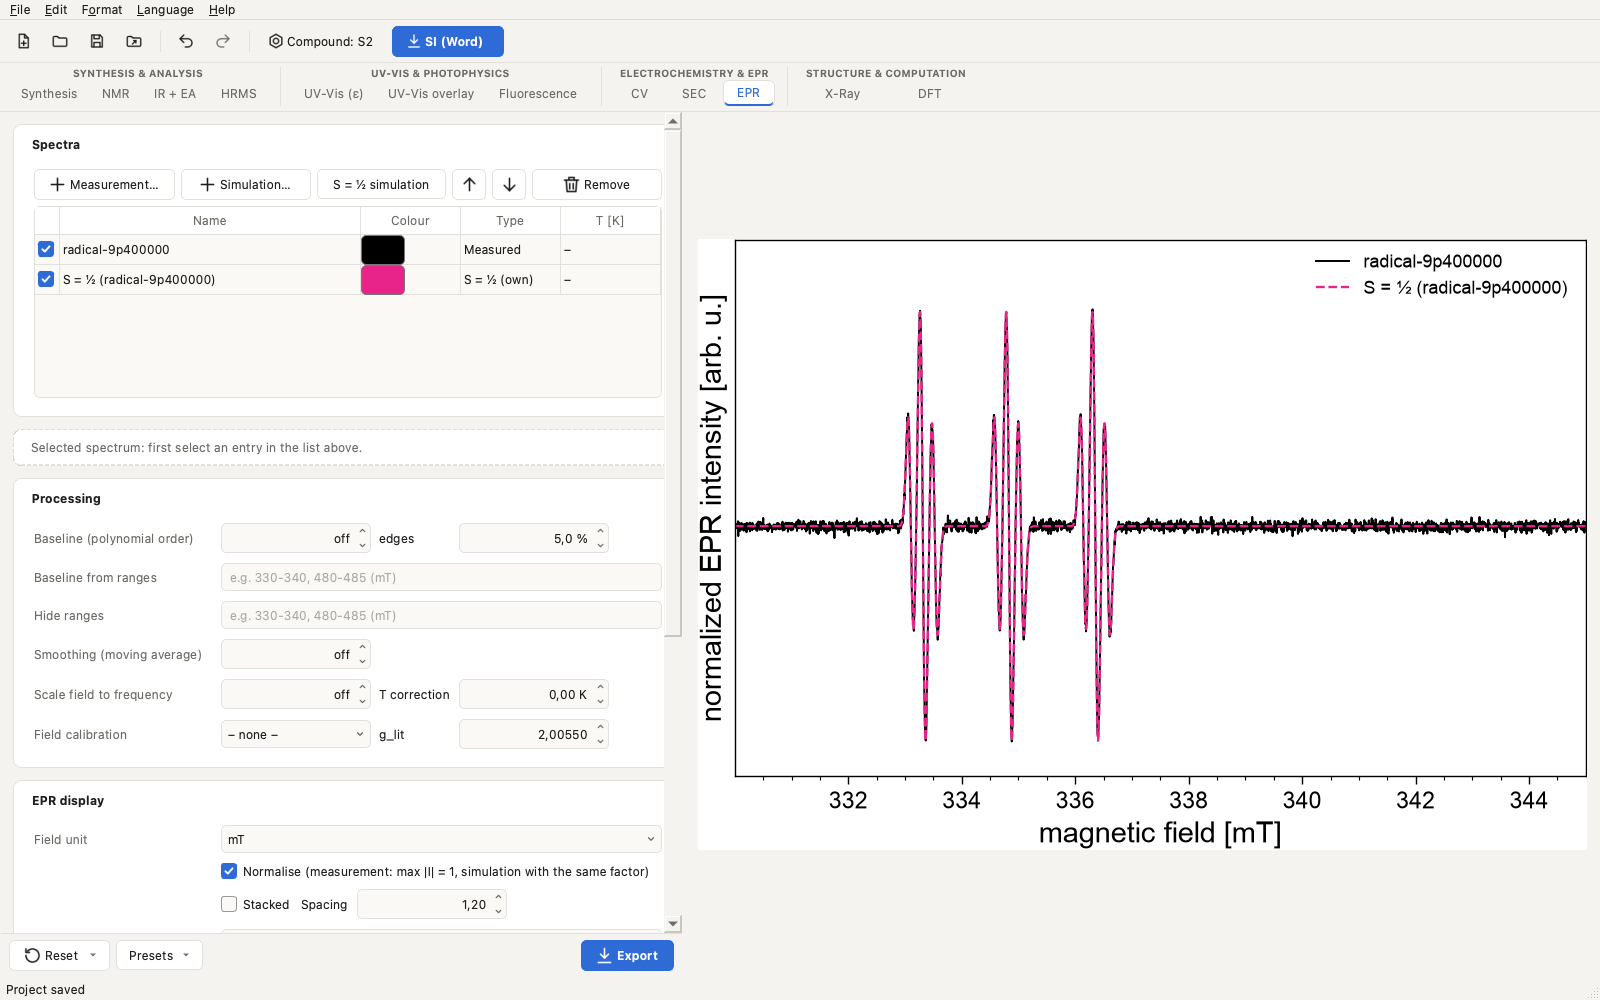
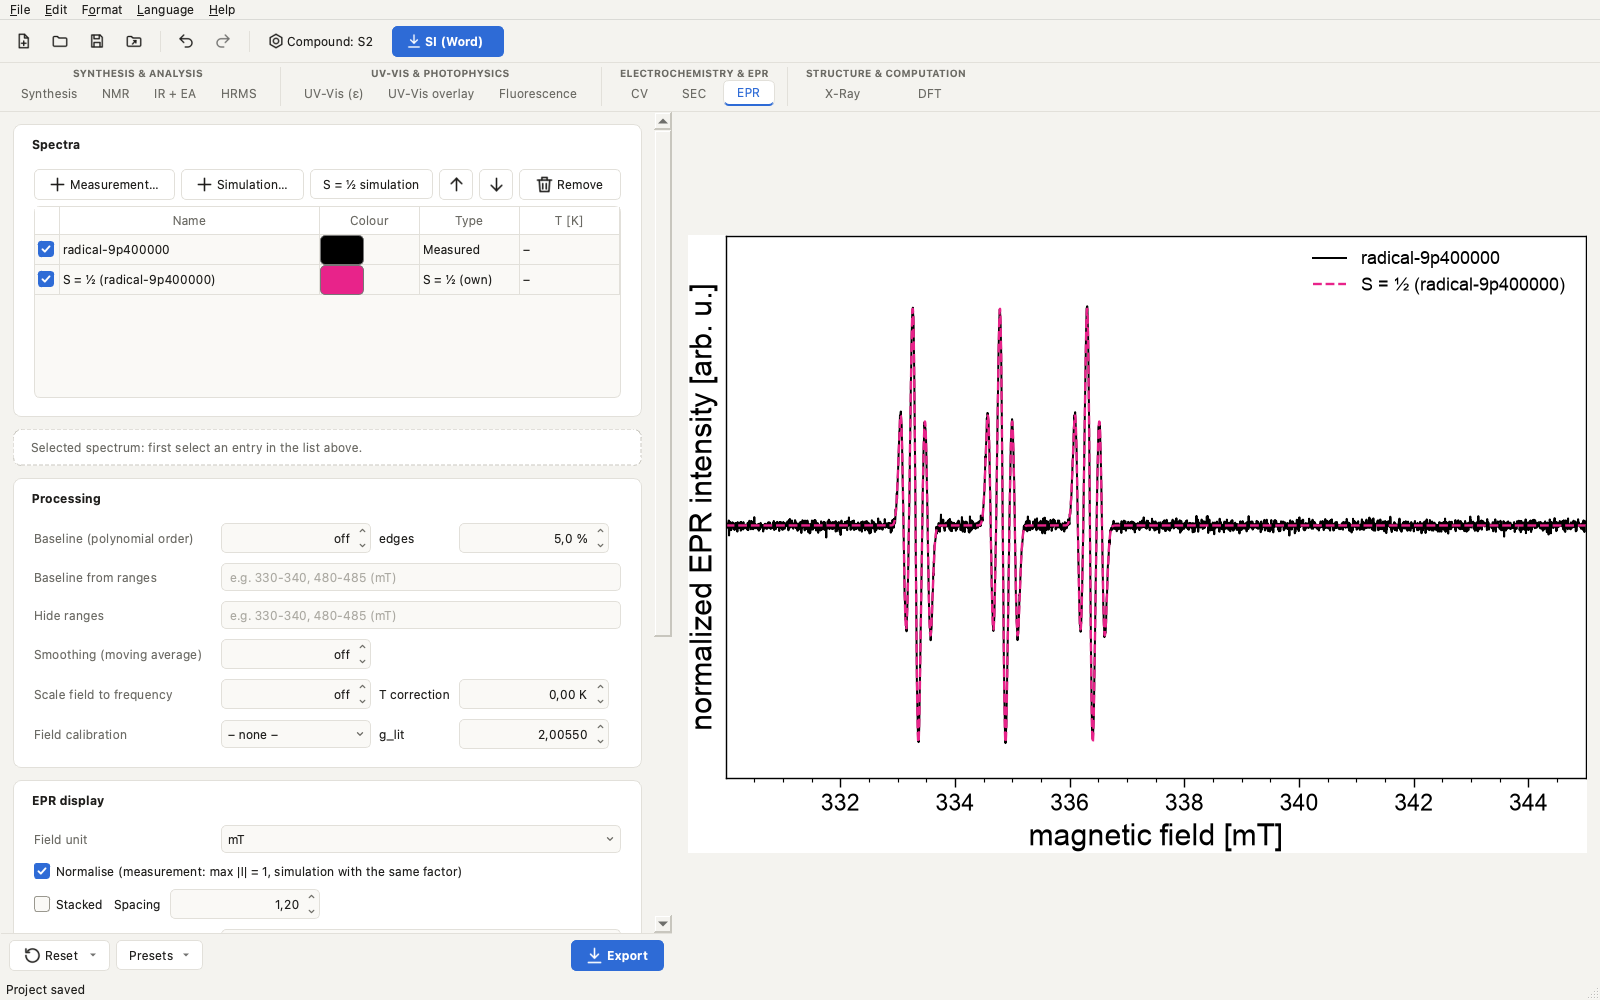
Version 2.0.2: welcome page, example project, help menu, guides, left column never clipped
Changelogs (EN/DE) and README screenshots for 2.0.2.

diff --git a/uvvis_gui.py b/uvvis_gui.py
@@ -17,7 +17,7 @@ from pathlib import Path
 
 APP_NAME = "Elucida"
 OLD_APP_NAMES = ("Spectravolt", "UVVisTool")   # 1.16–1.25 bzw. bis 1.15: Einstellungen beim ersten Start übernehmen
-APP_VERSION = "2.0.1"
+APP_VERSION = "2.0.2"
 SI_PARTS = ("char", "nmr", "figs", "methods", "xray", "dft")   # Teile des SI-Exports (Auswahl im Dialog)
 SETTINGS_FILE = None      # Selbsttest: eigene INI-Datei statt der echten Benutzereinstellungen
 

diff --git a/CHANGELOG.de.md b/CHANGELOG.de.md
@@ -2,6 +2,27 @@
 
 # Änderungen
 
+## 2.0.2 – 23.10.2026
+
+### Neu
+- **Startbildschirm** ohne Projekt: was das Programm kann, Neues Projekt / Projekt öffnen / Beispielprojekt ansehen und
+  die zuletzt geöffneten Projekte.
+- **Beispielprojekt** mit künstlichen Daten für alle Tabs (Hilfe → Beispielprojekt ansehen) – zum Ausprobieren.
+- **Hilfe-Menü:** Anleitung zum aktuellen Tab (F1), Schnellstart, Beispielprojekt, Protokoll.
+- **README:** Schnellstart in sechs Schritten und Schritt-für-Schritt-Anleitungen (Deutsch und Englisch) für Synthese bis
+  zur SI, UV-Vis ε, CV und SEC, EPR, Kristallstruktur und DFT.
+- Nach dem Export bietet die Meldung **Ordner öffnen** an; Synthese und NMR haben dieselbe Fußleiste
+  mit **Exportieren** wie die anderen Tabs.
+
+### Geändert
+- Die **linke Spalte passt sich immer ihrem Inhalt an** – nichts wird rechts abgeschnitten, auch auf kleineren
+  Laptop-Bildschirmen und bei breiterer Schrift (Windows); die übrige Breite bekommt die Abbildung.
+- Knöpfe sind nur aktiv, wenn sie etwas tun können („Kombinieren“ ab zwei markierten TD-DFT-Einträgen, „Aus Schema“ mit
+  Schema).
+
+### Behoben
+- UV-Vis (ε): Die linke Spalte konnte auf einem MacBook abgeschnitten sein („Konzentrationen…“, „g/mol“, „Entfernen“).
+
 ## 2.0.1 – 23.10.2026
 
 ### Neu

diff --git a/CHANGELOG.md b/CHANGELOG.md
@@ -2,6 +2,27 @@
 
 # Changelog
 
+## 2.0.2 – 2026-10-23
+
+### New
+- **Welcome page** without a project: what the program does, New project / Open project / Open example project and
+  the recently opened projects.
+- **Example project** with artificial data for all tabs (Help → Open example project) – to try everything out.
+- **Help menu:** guide for the current tab (F1), quick start, example project, log.
+- **README:** quick start in six steps and step-by-step guides (German and English) for synthesis to the SI, UV-Vis ε,
+  CV and SEC, EPR, crystal structure and DFT.
+- After an export, the message offers **Open folder**; synthesis and NMR have the same footer with **Export** as the
+  other tabs.
+
+### Changed
+- The **left column always fits its content** – nothing is cut off at the right edge, also on smaller laptop screens
+  and with wider fonts (Windows); the rest of the width goes to the figure.
+- Buttons are only active when they can do something ("Combine" from two selected TD-DFT entries, "From scheme" with a
+  scheme).
+
+### Fixed
+- UV-Vis (ε) tab: the left column could be cut off on a MacBook ("Concentrations…", "g/mol", "Remove").
+
 ## 2.0.1 – 2026-10-23
 
 ### New
